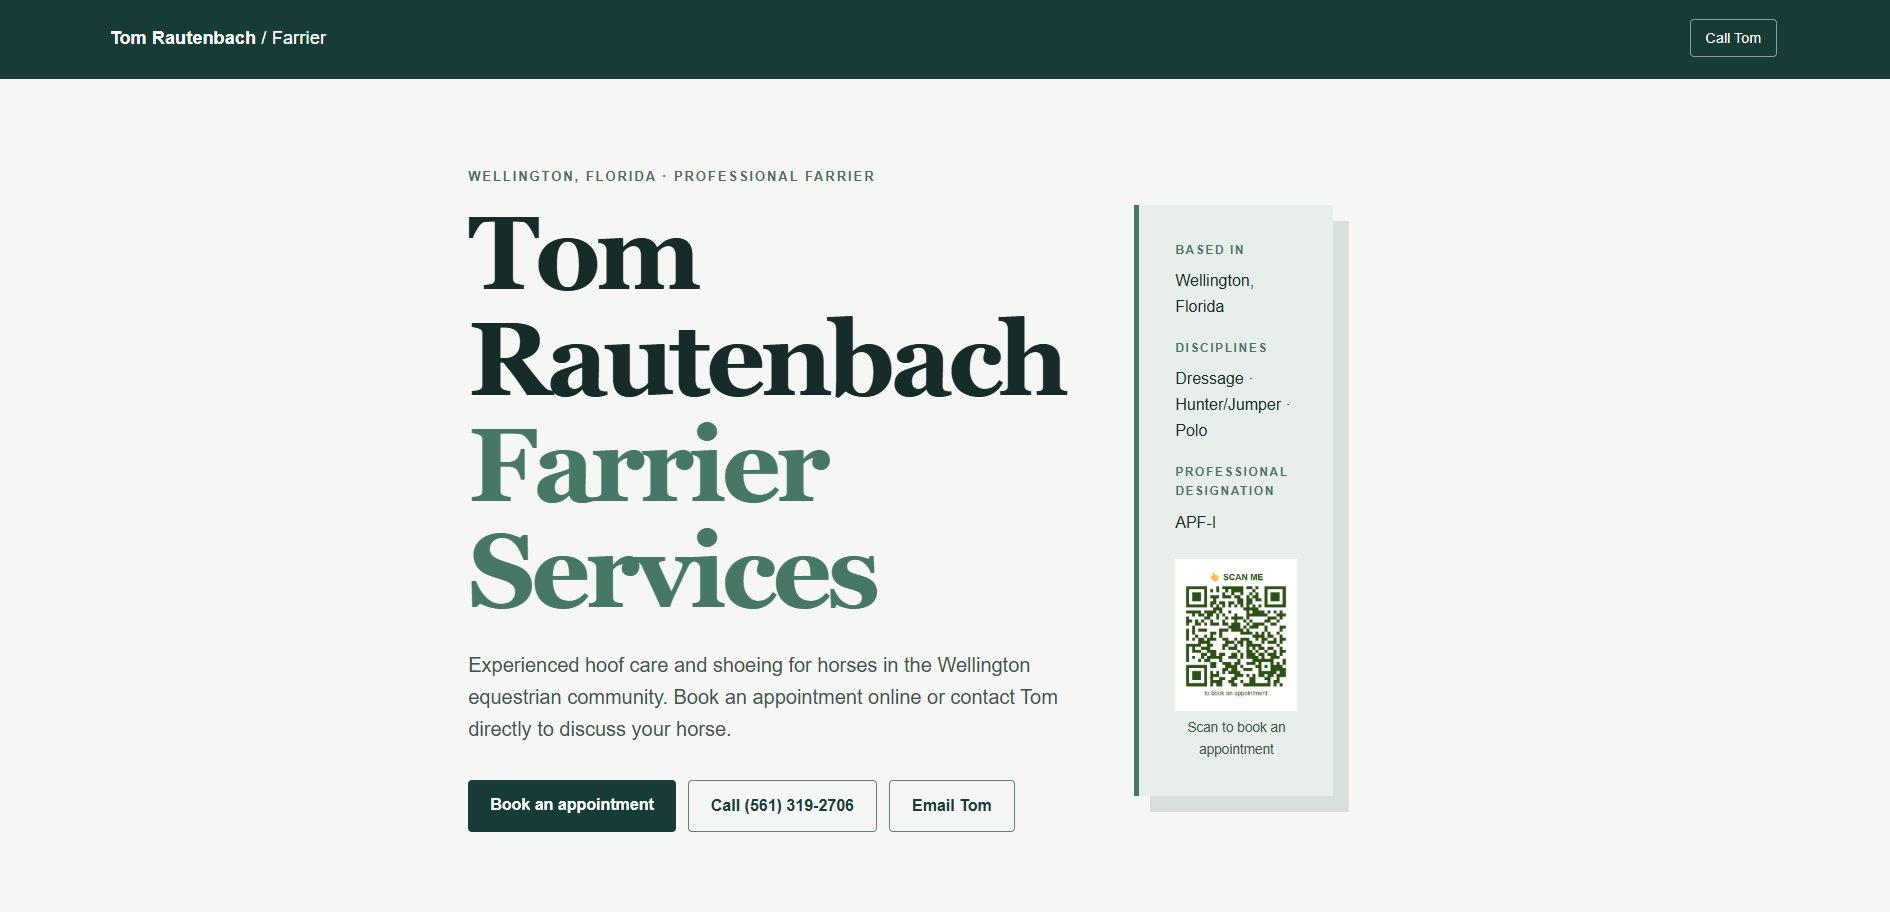
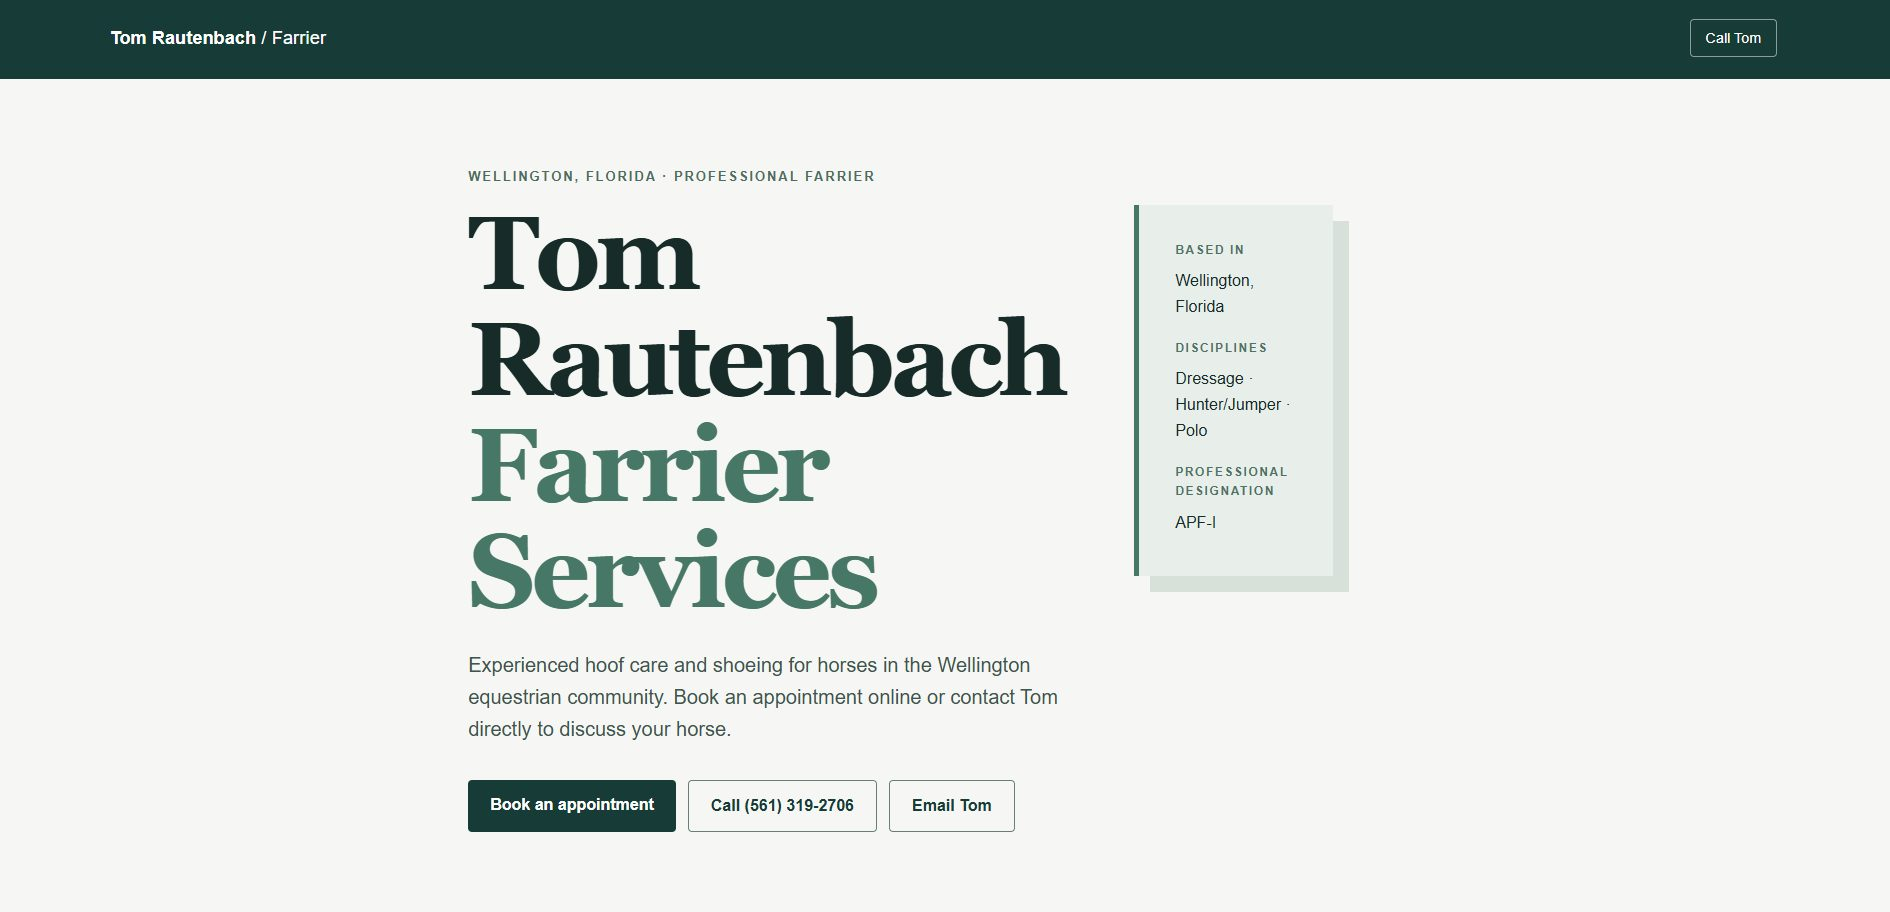
Remove QR code from Tom Rautenbach website example
Claude-Session: https://claude.ai/code/session_013jG2MCrf53dpzabdq2siYs

Changed region(s): [[0.5931, 0.614, 0.718, 0.8904]]

diff --git a/app/page.jsx b/app/page.jsx
@@ -121,9 +121,9 @@ const WEBSITES = [
   },
   {
     title: "Tom Rautenbach Farrier Services",
-    desc: "A website for a professional farrier in Wellington, Florida, with online booking and a QR code for appointments.",
+    desc: "A website for a professional farrier in Wellington, Florida, with online booking and easy ways to call or email.",
     src: "/work/tom-rautenbach-farrier.jpg",
-    alt: "Home page of the Tom Rautenbach Farrier Services website, with buttons to book an appointment, call or email, and a panel listing disciplines and a QR code to book",
+    alt: "Home page of the Tom Rautenbach Farrier Services website, with buttons to book an appointment, call or email, and a panel listing location, disciplines and professional designation",
   },
 ];
 
